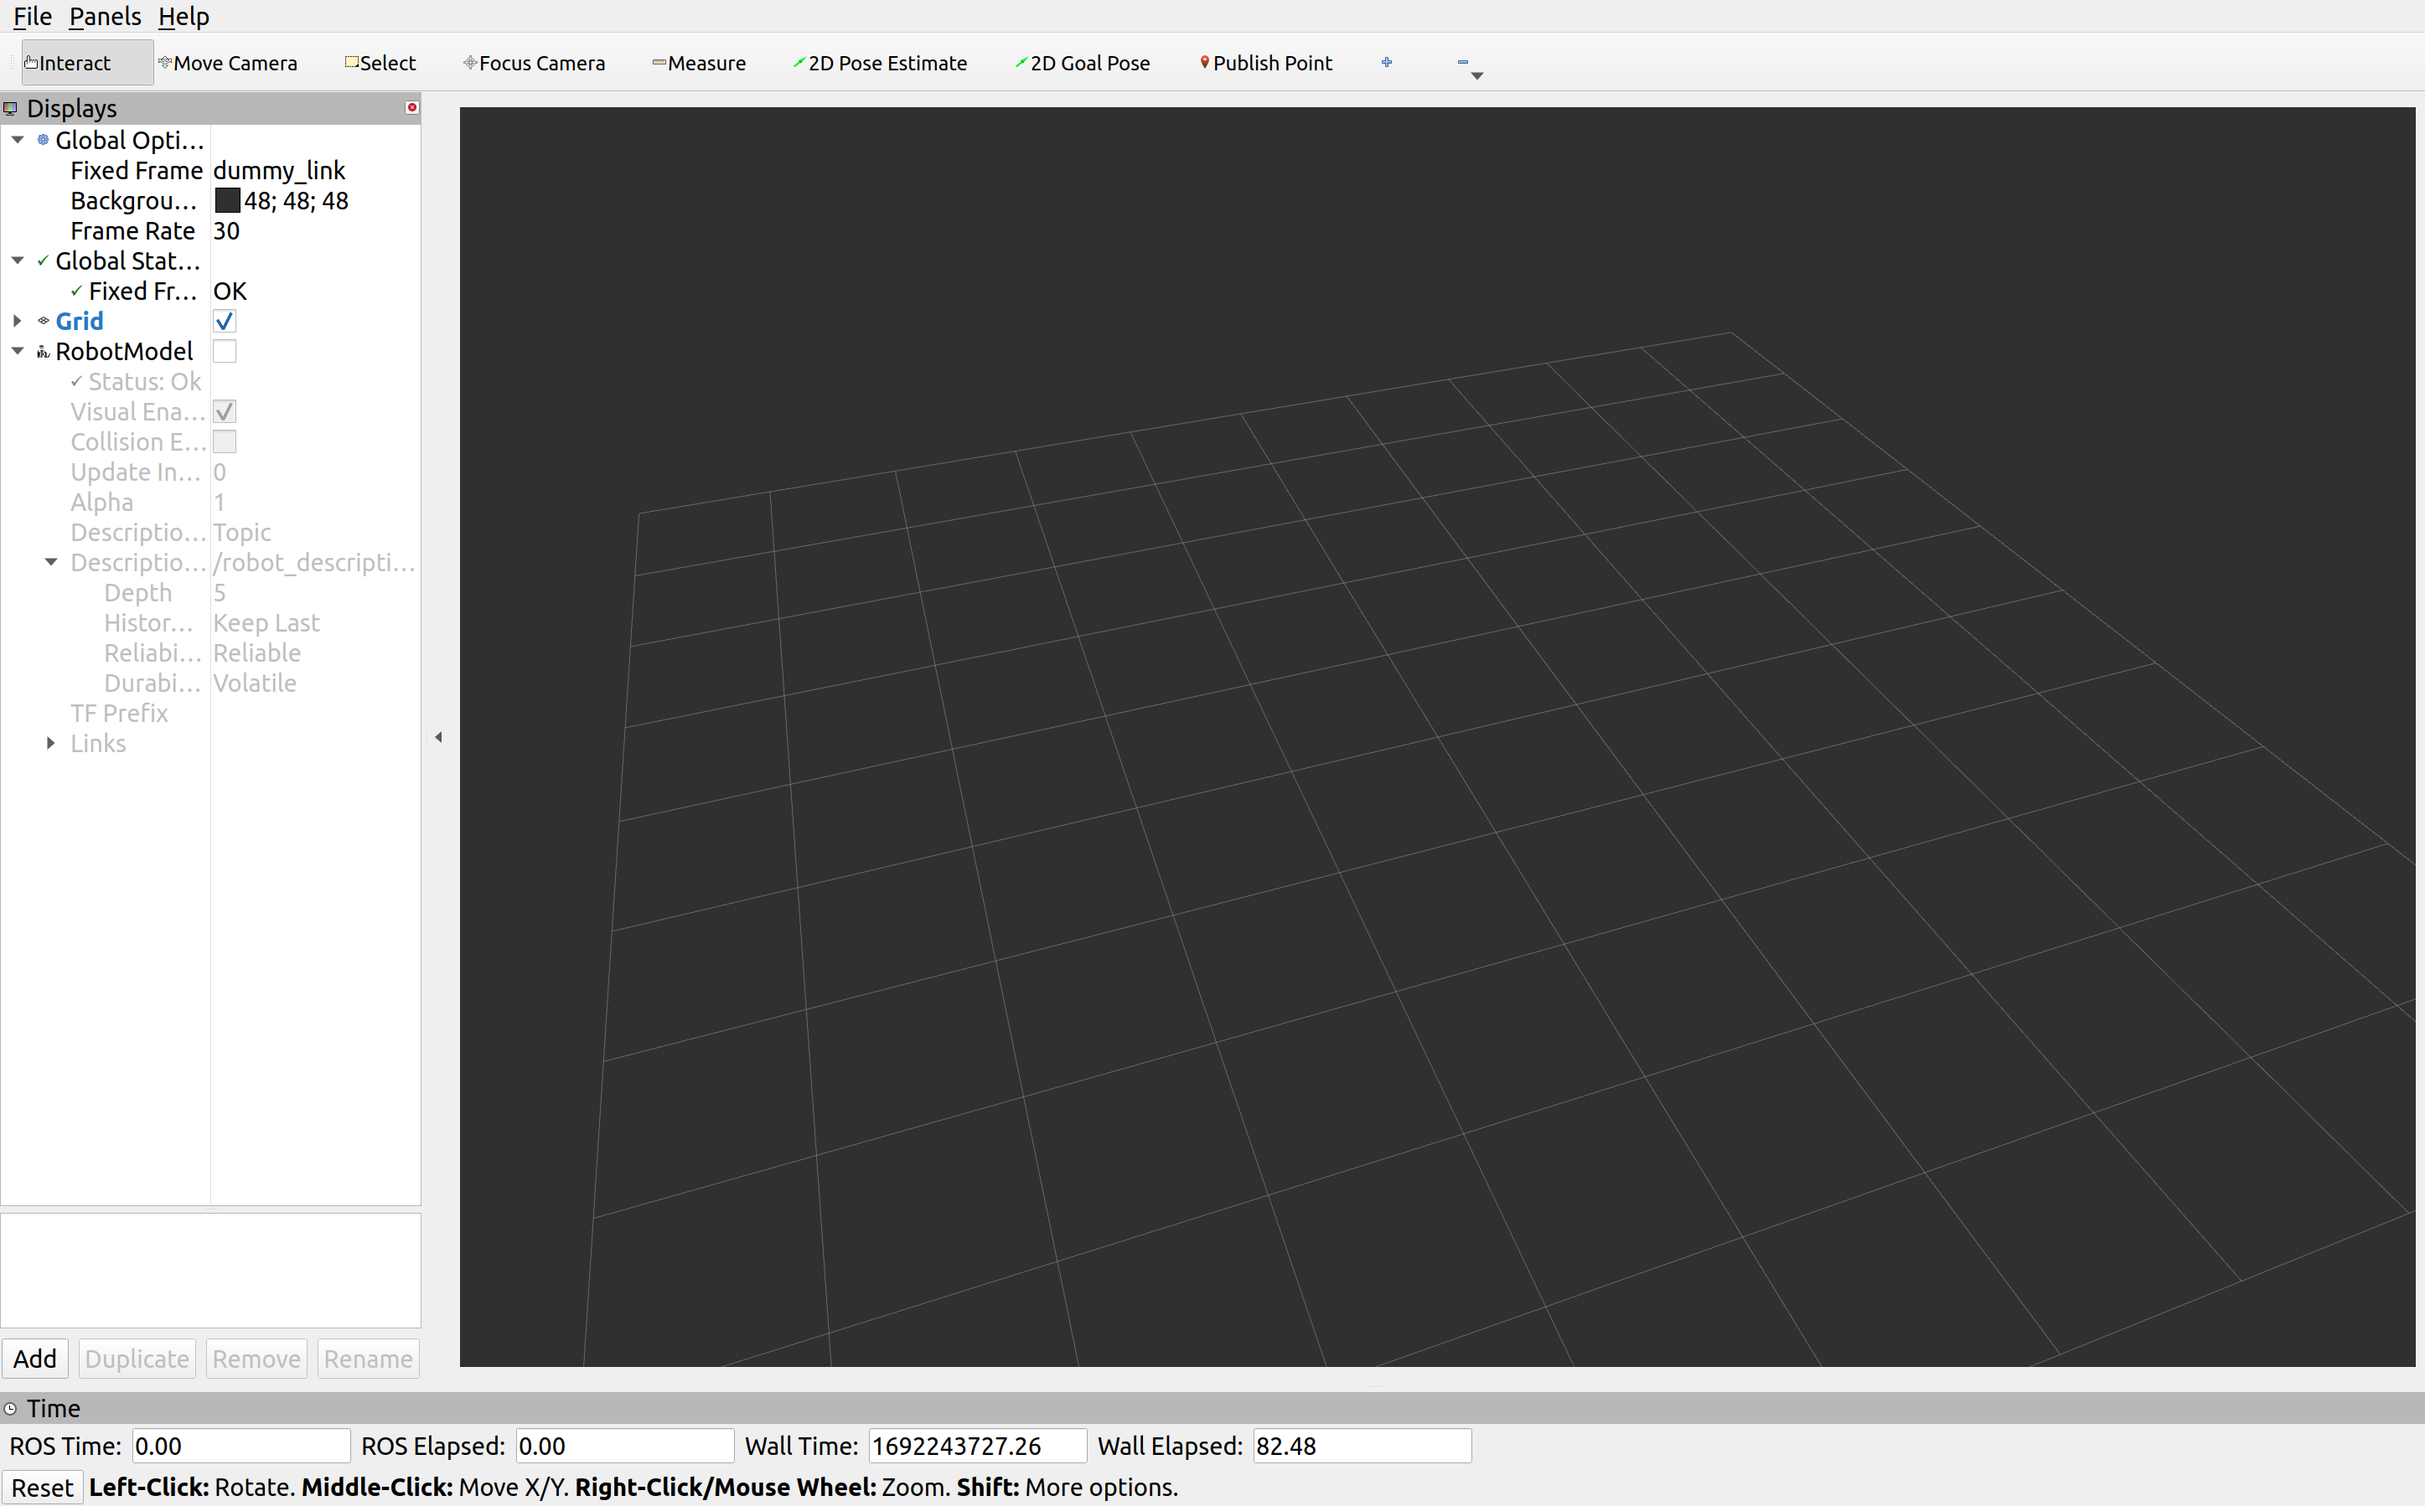
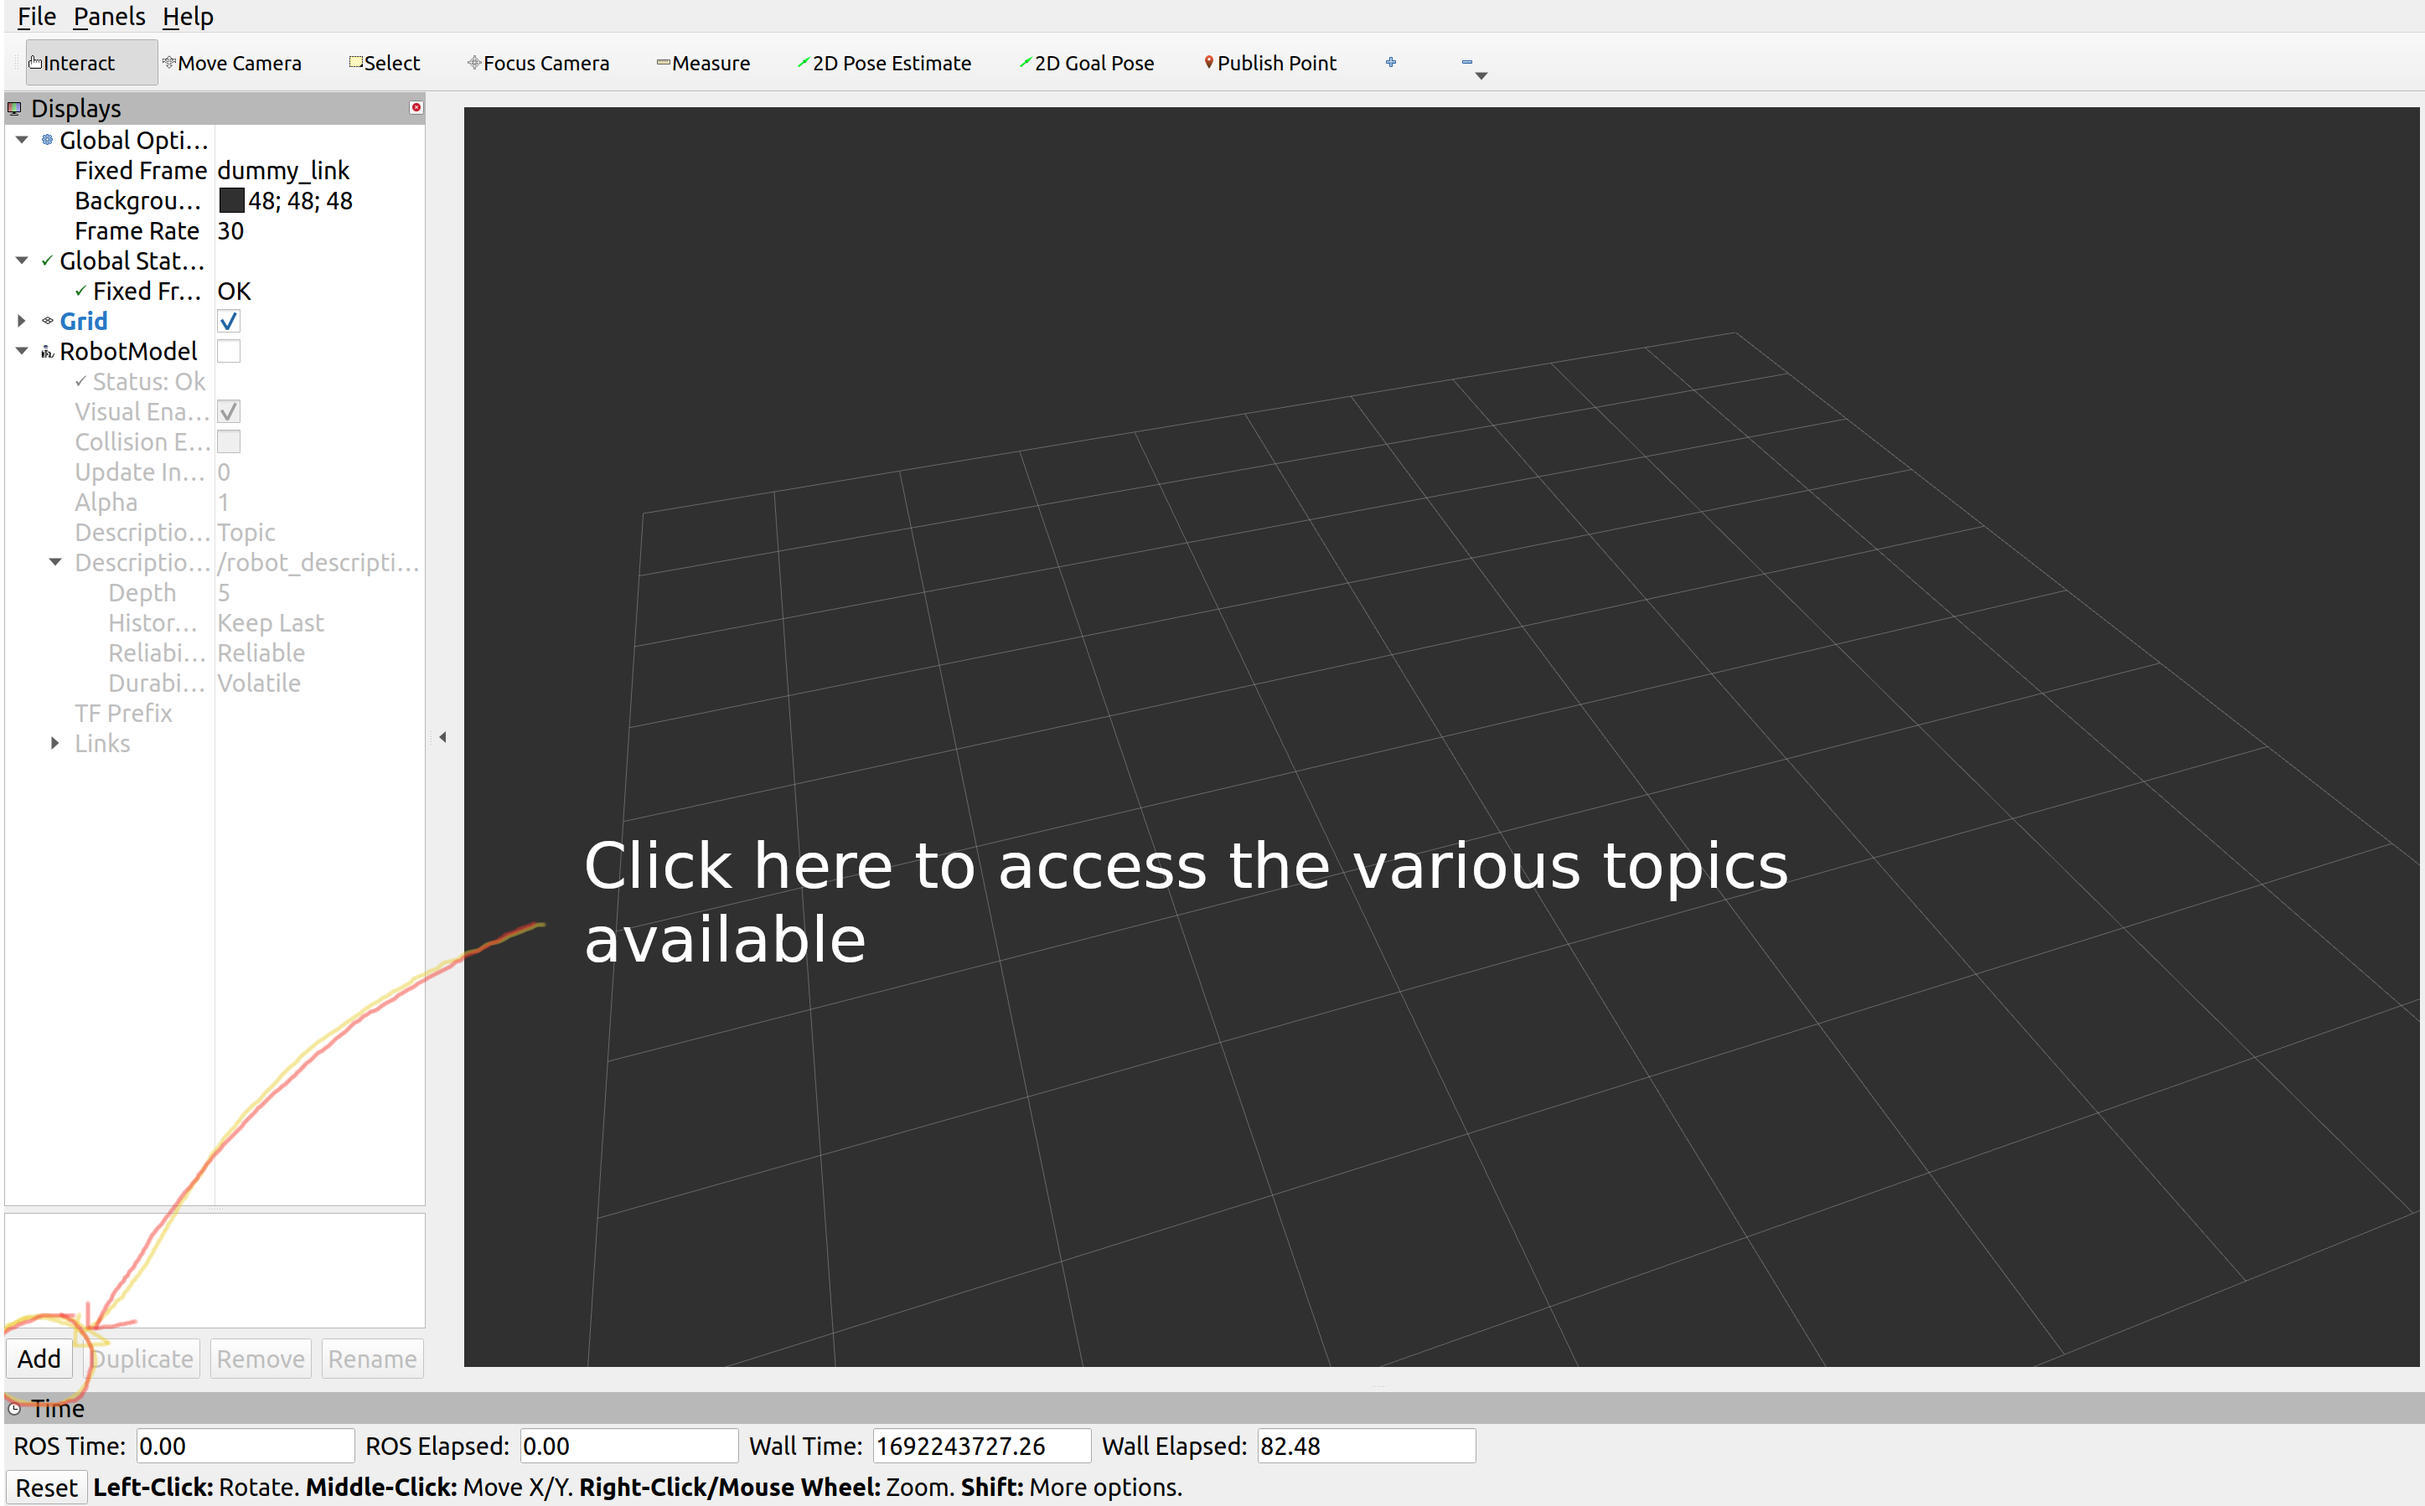
Adding Laser Scanner Images

diff --git a/docs/plugin.rst b/docs/plugin.rst
@@ -46,9 +46,25 @@ We will add the below code to our URDF file.
   </sensor>
   </gazebo>
 
-  Build your project and use the Launch script to start RVIZ 2.
 
+Build your project and use the Launch script to start RVIZ 2.
+
+Click on the Add button on the bottom left corner of the screen.
 
 .. image:: images/Add.png
-  :width: 400
+  :width: 700
+  :alt: Add Laser Topic
+
+
+Select the LaserScan topic from the list.
+
+.. image:: images/laser_topic.png
+  :width: 700
+  :alt: Add Laser Topic
+
+Use the following configurations for Laser Scanner to work. You can make changes once you are comfortable.
+Make sure you change the topic name to the topic of your laser scanner.
+
+.. image:: images/rviz_laser_config.png
+  :width: 700
   :alt: Add Laser Topic
